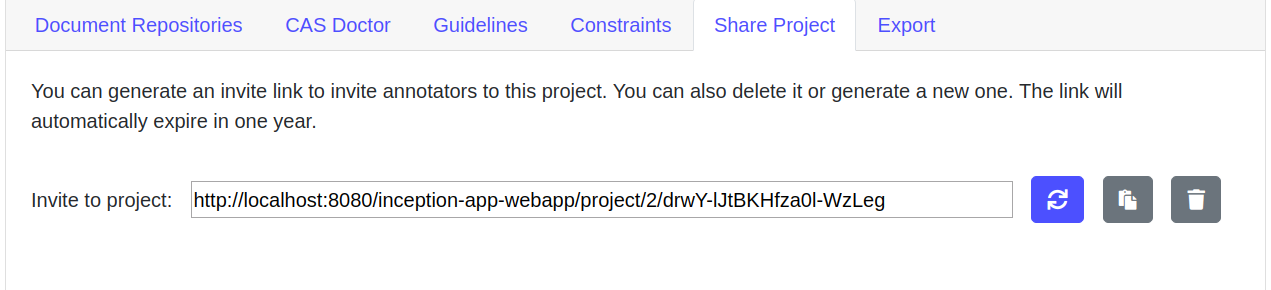
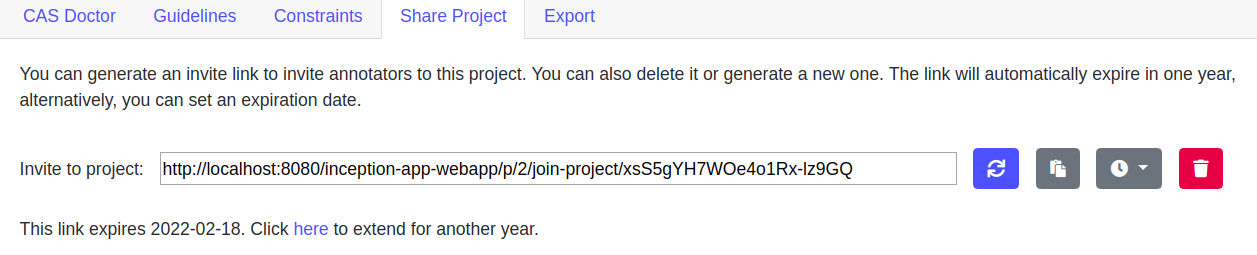
#1965 Extend invite settings panel
- added functionality to set specific expiration date
- updated tests
- updated guides

diff --git a/inception-sharing/src/main/java/de/tudarmstadt/ukp/inception/sharing/project/InviteProjectSettingsPanel.html b/inception-sharing/src/main/java/de/tudarmstadt/ukp/inception/sharing/project/InviteProjectSettingsPanel.html
@@ -27,6 +27,20 @@
 		  <input wicket:id="linkText" class="target flex-content" type="text" readonly/>
 		  <button wicket:id="regen" class="btn btn-primary"><i class="fas fa-sync" wicket:message="title:regen"></i></button>
 		  <button wicket:id="copy" class="btn btn-secondary"><i class="fas fa-paste" wicket:message="title:copy"></i></button>
+		  <span wicket:id="datePickContainer" class="dropdown" aria-haspopup="true" aria-expanded="false">
+		    <button class="btn btn-secondary dropdown-toggle" data-toggle="collapse" data-target="#datePickerCollapse">
+		      <i class="fas fa-clock" wicket:message="title:setDate"></i>
+		    </button>
+		    <div id="datePickerCollapse" class="dropdown-menu dropdown-menu-right" role="menu">
+		    <form wicket:id="datePickForm">
+		       <div class="card-header"><wicket:message key="setDate"></wicket:message></div>
+		       <div class="card-body flex-v-container flex-gutter">
+		         <input wicket:id="datePicker" type="date"/>
+		         <button wicket:id="submitDateLink" type="submit" class="btn btn-secondary"><wicket:message key="save"></wicket:message></button>
+		       </div>
+		    </form>
+		    </div>
+		  </span>
 		  <button wicket:id="remove" class="btn btn-danger"><i class="fas fa-trash" wicket:message="title:remove"></i></button>
 		  </div>
 		  <div class="flex-h-container flex-centered card-body">

diff --git a/inception-sharing/src/main/java/de/tudarmstadt/ukp/inception/sharing/project/InviteProjectSettingsPanel.java b/inception-sharing/src/main/java/de/tudarmstadt/ukp/inception/sharing/project/InviteProjectSettingsPanel.java
@@ -29,14 +29,18 @@ import org.apache.wicket.feedback.IFeedback;
 import org.apache.wicket.markup.html.WebMarkupContainer;
 import org.apache.wicket.markup.html.basic.Label;
 import org.apache.wicket.markup.html.form.Button;
+import org.apache.wicket.markup.html.form.Form;
 import org.apache.wicket.markup.html.form.TextField;
 import org.apache.wicket.model.IModel;
 import org.apache.wicket.model.LoadableDetachableModel;
+import org.apache.wicket.model.Model;
 import org.apache.wicket.request.Url;
 import org.apache.wicket.request.cycle.RequestCycle;
 import org.apache.wicket.request.mapper.parameter.PageParameters;
 import org.apache.wicket.spring.injection.annot.SpringBean;
 import org.wicketstuff.clipboardjs.ClipboardJsBehavior;
+
+import com.googlecode.wicket.kendo.ui.form.datetime.AjaxDatePicker;
 
 import de.tudarmstadt.ukp.clarin.webanno.model.Project;
 import de.tudarmstadt.ukp.clarin.webanno.support.lambda.LambdaAjaxLink;
@@ -53,6 +57,7 @@ public class InviteProjectSettingsPanel
     private @SpringBean ServletContext servletContext;
 
     private final WebMarkupContainer inviteLinkContainer;
+    private final AjaxDatePicker datePicker;
     private TextField<String> linkField;
 
     public InviteProjectSettingsPanel(String aId, IModel<Project> aProjectModel)
@@ -62,6 +67,18 @@ public class InviteProjectSettingsPanel
         inviteLinkContainer = createInviteLinkContainer();
         inviteLinkContainer.setOutputMarkupId(true);
         add(inviteLinkContainer);
+        
+        // add set date dropdown
+        WebMarkupContainer datePickContainer = new WebMarkupContainer("datePickContainer");
+        datePickContainer.setOutputMarkupId(true);
+        inviteLinkContainer.add(datePickContainer);
+        datePicker = new AjaxDatePicker("datePicker",
+                Model.of(inviteService.getExpirationDate(getModelObject())), "MM/dd/yy");
+        Form<Project> datePickForm = new Form<Project>("datePickForm", getModel());
+        datePickForm.add(new LambdaAjaxLink("submitDateLink", this::actionSetDate));
+        datePickForm.add(datePicker);
+        datePickContainer.add(datePickForm);
+
         // add expiration infos
         Label expirationLabel = new Label("expirationDate", LoadableDetachableModel.of(this::getExpirationDate));
         expirationLabel.setOutputMarkupId(true);
@@ -71,11 +88,18 @@ public class InviteProjectSettingsPanel
         inviteLinkContainer.add(extendBtn);
     }
     
-    private void actionExtendInviteDate(AjaxRequestTarget aTarget) {
+    private void actionSetDate(AjaxRequestTarget aTarget) {
+        inviteService.generateInviteWithExpirationDate(getModelObject(), datePicker.getModelObject());
+        success("Set expiration date.");
+        aTarget.add(inviteLinkContainer);
         aTarget.addChildren(getPage(), IFeedback.class);
+    }
+    
+    private void actionExtendInviteDate(AjaxRequestTarget aTarget) {
         inviteService.extendInviteLinkDate(getModelObject());
         success("The validity period has been extended.");
         aTarget.add(inviteLinkContainer);
+        aTarget.addChildren(getPage(), IFeedback.class);
     }
     
     private String getExpirationDate() {

diff --git a/inception-sharing/src/main/java/de/tudarmstadt/ukp/inception/sharing/InviteServiceImpl.java b/inception-sharing/src/main/java/de/tudarmstadt/ukp/inception/sharing/InviteServiceImpl.java
@@ -61,17 +61,23 @@ public class InviteServiceImpl
     @Transactional
     public String generateInviteID(Project aProject)
     {
+        // remove old invite if necessary
+        removeInviteID(aProject);
         // set expiration date one year from now
         Date expirationDate = getDateOneYearForth(new Date());
+        String inviteID = generateNewInvite(aProject, expirationDate);
+
+        return inviteID;
+    }
+
+    private String generateNewInvite(Project aProject, Date expirationDate)
+    {
         // generate id
         byte[] bytes = new byte[16];
         random.nextBytes(bytes);
         String inviteID = Base64.getUrlEncoder().withoutPadding().encodeToString(bytes);
-
-        removeInviteID(aProject);
-        entityManager.flush();
+        
         entityManager.persist(new ProjectInvite(aProject, inviteID, expirationDate));
-
         return inviteID;
     }
 
@@ -96,8 +102,8 @@ public class InviteServiceImpl
         if (invite == null) {
             return;
         }
-
         entityManager.remove(invite);
+        entityManager.flush();
     }
 
     private ProjectInvite getProjectInvite(Project aProject)
@@ -169,6 +175,19 @@ public class InviteServiceImpl
         }
         Date newExpirationDate = getDateOneYearForth(invite.getExpirationDate());
         invite.setExpirationDate(newExpirationDate);
+        entityManager.merge(invite);
+    }
+
+    @Override
+    @Transactional
+    public void generateInviteWithExpirationDate(Project aProject, Date aExpirationDate)
+    {
+        ProjectInvite invite = getProjectInvite(aProject);
+        if (invite == null) {
+            generateNewInvite(aProject, aExpirationDate);
+            return;
+        }
+        invite.setExpirationDate(aExpirationDate);
         entityManager.merge(invite);
     }
 }

diff --git a/inception-sharing/src/test/java/de/tudarmstadt/ukp/inception/sharing/InviteServiceImplTest.java b/inception-sharing/src/test/java/de/tudarmstadt/ukp/inception/sharing/InviteServiceImplTest.java
@@ -19,6 +19,8 @@ package de.tudarmstadt.ukp.inception.sharing;
 
 import static org.assertj.core.api.Assertions.assertThat;
 
+import java.text.ParseException;
+import java.text.SimpleDateFormat;
 import java.util.Calendar;
 import java.util.Date;
 
@@ -145,5 +147,17 @@ public class InviteServiceImplTest
         Calendar newCalendar = Calendar.getInstance();
         newCalendar.setTime(newDate);
         assertThat(newCalendar.get(Calendar.YEAR) - oldCalendar.get(Calendar.YEAR)).isEqualTo(1);
+    }
+    
+    @Test
+    public void generateInviteWithExpirationDate_ShouldReturnSpecificDate() throws ParseException
+    {
+        SimpleDateFormat dateFormat = new SimpleDateFormat("yyyy-MM-dd");
+        Date expectedDate = dateFormat.parse("2022-01-15");
+        sut.generateInviteWithExpirationDate(testProject, expectedDate);
+        
+        Date generatedDate = sut.getExpirationDate(testProject);
+        assertThat(generatedDate).isEqualTo(expectedDate);
+        
     }
 }

diff --git a/inception-sharing/src/main/java/de/tudarmstadt/ukp/inception/sharing/InviteService.java b/inception-sharing/src/main/java/de/tudarmstadt/ukp/inception/sharing/InviteService.java
@@ -67,4 +67,12 @@ public interface InviteService
      * Extend validity of the invite link associated with the given project for another year.
      */
     void extendInviteLinkDate(Project aProject);
+
+    /**
+     * Set expiration date of the invite link of the given project or 
+     * generate new invite link with the given date
+     * @param aProject the project
+     * @param aExpirationDate the new expiration date
+     */
+    void generateInviteWithExpirationDate(Project aProject, Date aExpirationDate);
 }
